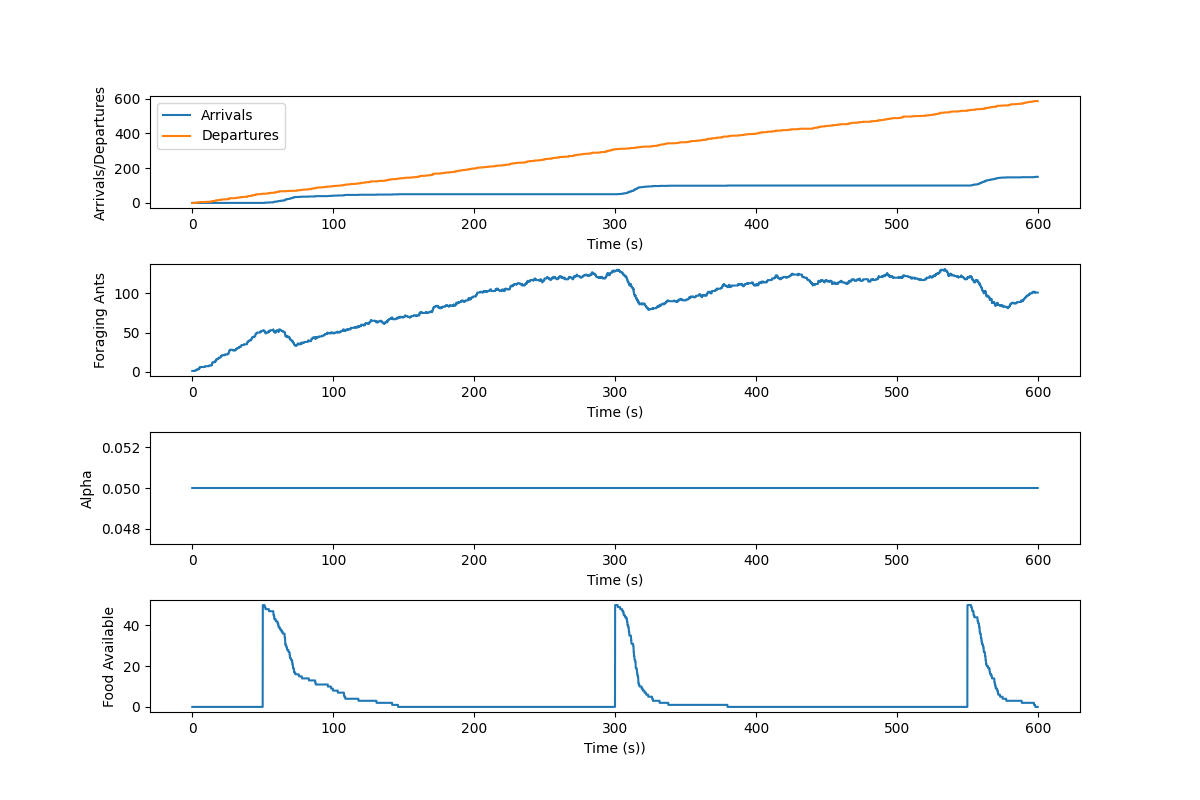
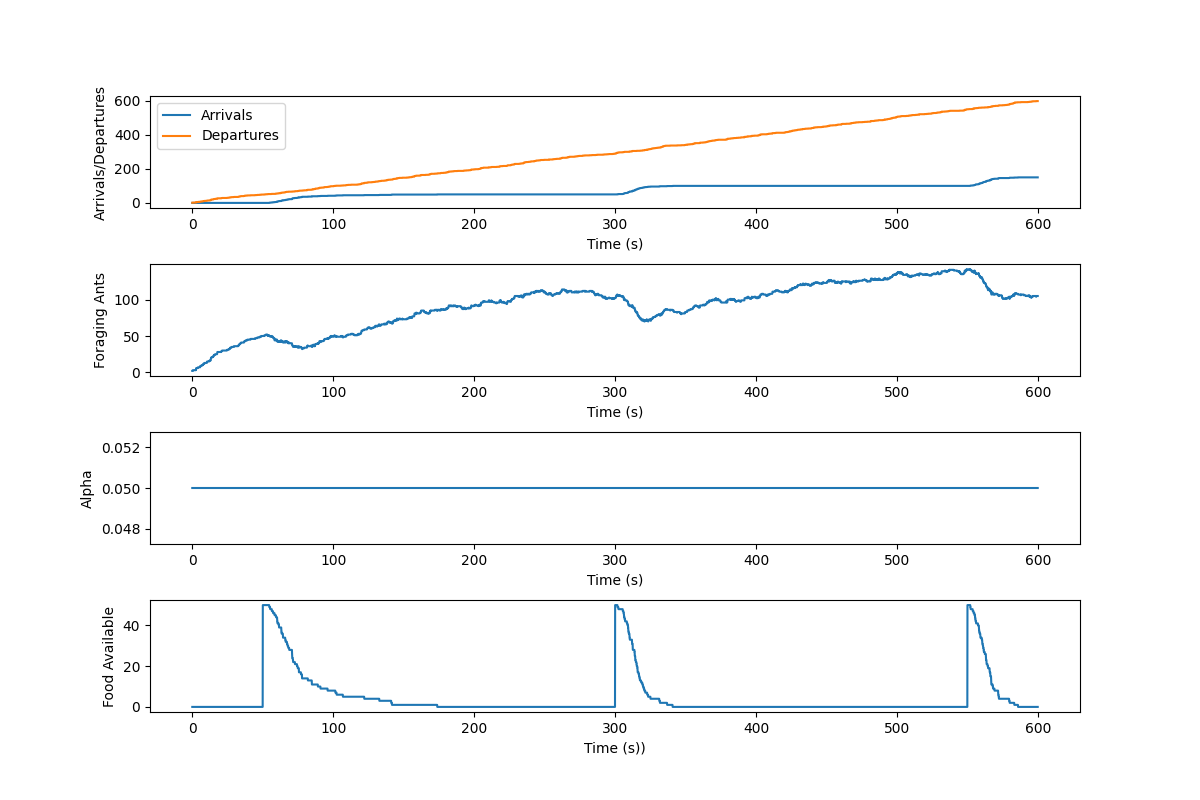
fixing duplicate food collection

diff --git a/main.py b/main.py
@@ -310,15 +310,14 @@ def main():
         for ant in ant_list:
             for food in food_list:
                 if ant.rect.colliderect(food.rect) and ant.returning_with_food == False:
-                    # might need to take account that an ant can hit multiple foods.
-                    # print("Ant hits the food")
                     # delete food
                     food_list.remove(food)
                     # send ant back to nest
                     ant.return_to_nest(nest.x, nest.y)
                     ant.collect_food()
-
                     food_count += 1
+                    # move on to the next ant (since an ant can hit multiple foods)
+                    break
 
         # def track_all(self, food_eaten_increment, foraging_ants, alpha):
         # update simulation tracker
